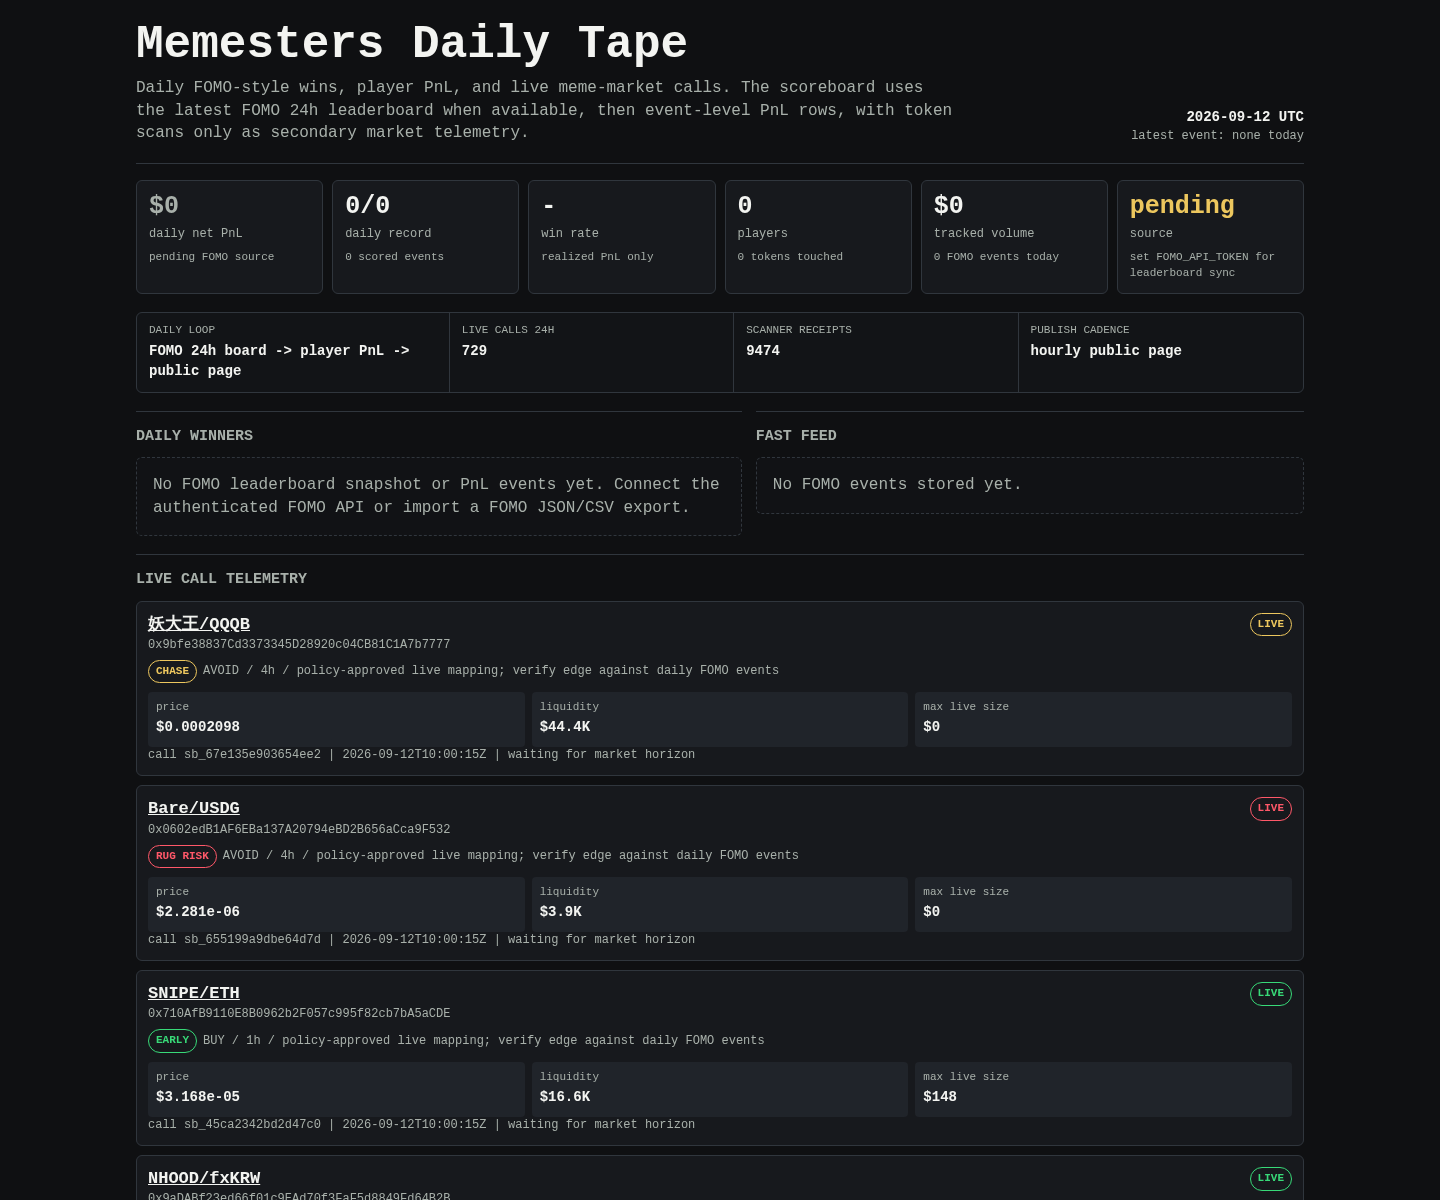
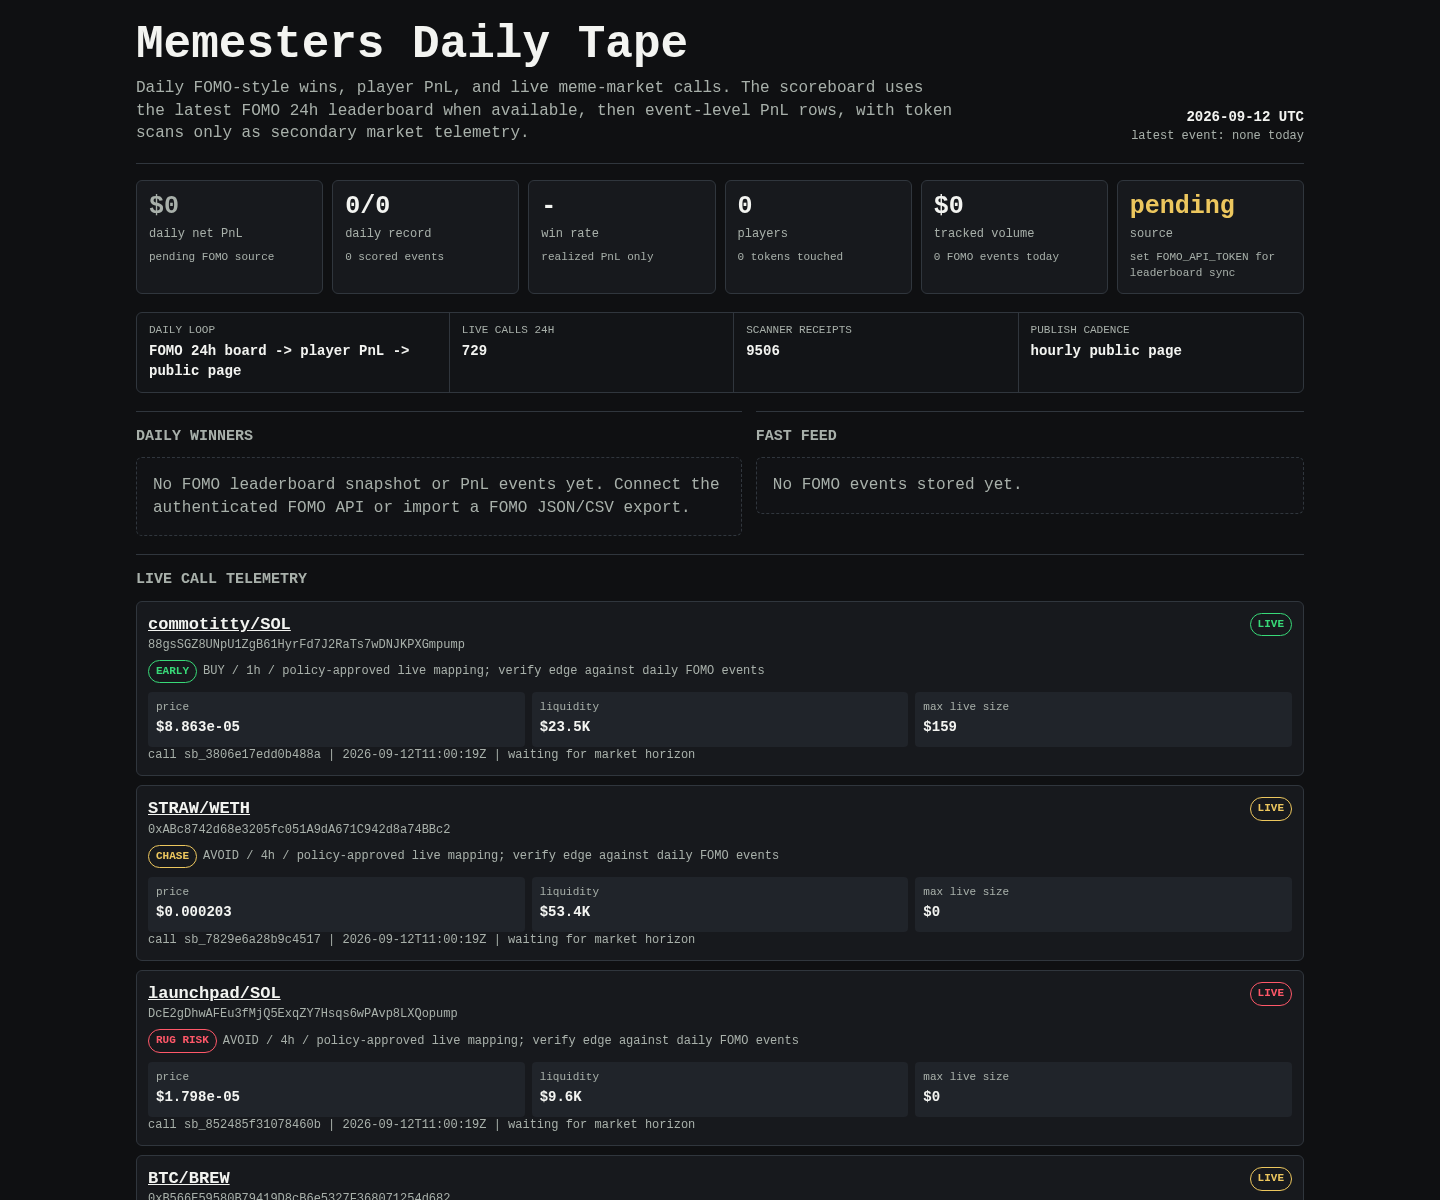
Update Memesters scoreboard

diff --git a/memesters/index.html b/memesters/index.html
@@ -150,7 +150,7 @@
     <div class="rail" aria-label="live operating loop">
       <div><span>daily loop</span><b>FOMO 24h board -> player PnL -> public page</b></div>
       <div><span>live calls 24h</span><b>729</b></div>
-      <div><span>scanner receipts</span><b>9474</b></div>
+      <div><span>scanner receipts</span><b>9506</b></div>
       <div><span>publish cadence</span><b>hourly public page</b></div>
     </div>
 
@@ -171,8 +171,29 @@
     <article class="receipt">
       <div class="receipt-head">
         <div>
-          <div class="pair"><a href="https://dexscreener.com/bsc/0xd24410a1a3d76c57b4c57cce0c670264a7e86d6b">妖大王/QQQB</a></div>
-          <div class="addr">0x9bfe38837Cd3373345D28920c04CB81C1A7b7777</div>
+          <div class="pair"><a href="https://dexscreener.com/solana/gkrrlzeagqkb1tlctuuc9ywxpeinmzohvyuvkarfpj33">commotitty/SOL</a></div>
+          <div class="addr">88gsSGZ8UNpU1ZgB61HyrFd7J2RaTs7wDNJKPXGmpump</div>
+          <div class="addr policy-line">
+            <span class="badge early">EARLY</span>
+            <span>BUY / 1h / policy-approved live mapping; verify edge against daily FOMO events</span>
+          </div>
+        </div>
+        <span class="badge early">LIVE</span>
+      </div>
+      <div class="receipt-grid">
+        <div class="kv"><span>price</span><b>$8.863e-05</b></div>
+        <div class="kv"><span>liquidity</span><b>$23.5K</b></div>
+        <div class="kv"><span>max live size</span><b>$159</b></div>
+      </div>
+      <div class="outcomes">call sb_3806e17edd0b488a | 2026-09-12T11:00:19Z | waiting for market horizon</div>
+    </article>
+    
+
+    <article class="receipt">
+      <div class="receipt-head">
+        <div>
+          <div class="pair"><a href="https://dexscreener.com/ethereum/0x1ee457d8f33669042cc3db6f138b36919b6866bcd5175cdf36c5bc874da3fd00">STRAW/WETH</a></div>
+          <div class="addr">0xABc8742d68e3205fc051A9dA671C942d8a74BBc2</div>
           <div class="addr policy-line">
             <span class="badge chase">CHASE</span>
             <span>AVOID / 4h / policy-approved live mapping; verify edge against daily FOMO events</span>
@@ -181,19 +202,19 @@
         <span class="badge chase">LIVE</span>
       </div>
       <div class="receipt-grid">
-        <div class="kv"><span>price</span><b>$0.0002098</b></div>
-        <div class="kv"><span>liquidity</span><b>$44.4K</b></div>
+        <div class="kv"><span>price</span><b>$0.000203</b></div>
+        <div class="kv"><span>liquidity</span><b>$53.4K</b></div>
         <div class="kv"><span>max live size</span><b>$0</b></div>
       </div>
-      <div class="outcomes">call sb_67e135e903654ee2 | 2026-09-12T10:00:15Z | waiting for market horizon</div>
+      <div class="outcomes">call sb_7829e6a28b9c4517 | 2026-09-12T11:00:19Z | waiting for market horizon</div>
     </article>
     
 
     <article class="receipt">
       <div class="receipt-head">
         <div>
-          <div class="pair"><a href="https://dexscreener.com/robinhood/0xc3eec55cdf5d774bc2524a989cd986277bd9ca8e6ac8d252ddadd5374a887753">Bare/USDG</a></div>
-          <div class="addr">0x0602edB1AF6EBa137A20794eBD2B656aCca9F532</div>
+          <div class="pair"><a href="https://dexscreener.com/solana/643cis6hneanayee5w7d93cx4ycw7afczf4kv86ka1cx">launchpad/SOL</a></div>
+          <div class="addr">DcE2gDhwAFEu3fMjQ5ExqZY7Hsqs6wPAvp8LXQopump</div>
           <div class="addr policy-line">
             <span class="badge rug-risk">RUG RISK</span>
             <span>AVOID / 4h / policy-approved live mapping; verify edge against daily FOMO events</span>
@@ -202,61 +223,19 @@
         <span class="badge rug-risk">LIVE</span>
       </div>
       <div class="receipt-grid">
-        <div class="kv"><span>price</span><b>$2.281e-06</b></div>
-        <div class="kv"><span>liquidity</span><b>$3.9K</b></div>
+        <div class="kv"><span>price</span><b>$1.798e-05</b></div>
+        <div class="kv"><span>liquidity</span><b>$9.6K</b></div>
         <div class="kv"><span>max live size</span><b>$0</b></div>
       </div>
-      <div class="outcomes">call sb_655199a9dbe64d7d | 2026-09-12T10:00:15Z | waiting for market horizon</div>
+      <div class="outcomes">call sb_852485f31078460b | 2026-09-12T11:00:19Z | waiting for market horizon</div>
     </article>
     
 
     <article class="receipt">
       <div class="receipt-head">
         <div>
-          <div class="pair"><a href="https://dexscreener.com/robinhood/0xb623ee125b0bc5fda7fcc6396d8f5aa19a0e4c0f7c159f100755383688fe5cc0">SNIPE/ETH</a></div>
-          <div class="addr">0x710AfB9110E8B0962b2F057c995f82cb7bA5aCDE</div>
-          <div class="addr policy-line">
-            <span class="badge early">EARLY</span>
-            <span>BUY / 1h / policy-approved live mapping; verify edge against daily FOMO events</span>
-          </div>
-        </div>
-        <span class="badge early">LIVE</span>
-      </div>
-      <div class="receipt-grid">
-        <div class="kv"><span>price</span><b>$3.168e-05</b></div>
-        <div class="kv"><span>liquidity</span><b>$16.6K</b></div>
-        <div class="kv"><span>max live size</span><b>$148</b></div>
-      </div>
-      <div class="outcomes">call sb_45ca2342bd2d47c0 | 2026-09-12T10:00:15Z | waiting for market horizon</div>
-    </article>
-    
-
-    <article class="receipt">
-      <div class="receipt-head">
-        <div>
-          <div class="pair"><a href="https://dexscreener.com/robinhood/0x867cbbd4565abc53beefca93f5d6e8d34099491b4c8872b9ca1e7ed354d3c989">NHOOD/fxKRW</a></div>
-          <div class="addr">0x9aDABf23ed66f01c9EAd70f3FaF5d8849Fd64B2B</div>
-          <div class="addr policy-line">
-            <span class="badge early">EARLY</span>
-            <span>BUY / 1h / policy-approved live mapping; verify edge against daily FOMO events</span>
-          </div>
-        </div>
-        <span class="badge early">LIVE</span>
-      </div>
-      <div class="receipt-grid">
-        <div class="kv"><span>price</span><b>$6.177e-06</b></div>
-        <div class="kv"><span>liquidity</span><b>$6.0K</b></div>
-        <div class="kv"><span>max live size</span><b>$25</b></div>
-      </div>
-      <div class="outcomes">call sb_dcc747a74a47444b | 2026-09-12T10:00:15Z | waiting for market horizon</div>
-    </article>
-    
-
-    <article class="receipt">
-      <div class="receipt-head">
-        <div>
-          <div class="pair"><a href="https://dexscreener.com/robinhood/0xee5e0f461066c9d245f27369cc9d177a2349976909cc9d78227c73d0bba6a042">Picks/ETH</a></div>
-          <div class="addr">0xe4cC189186d504fF007C4Bd8a6CD5C0ECbCaB0eC</div>
+          <div class="pair"><a href="https://dexscreener.com/bsc/0x5b0d81efa2a93f1645677e17f159102545cb653d">BTC/BREW</a></div>
+          <div class="addr">0xB566E59580B79419D8cB6e5327F368071254d682</div>
           <div class="addr policy-line">
             <span class="badge chase">CHASE</span>
             <span>AVOID / 4h / policy-approved live mapping; verify edge against daily FOMO events</span>
@@ -265,61 +244,19 @@
         <span class="badge chase">LIVE</span>
       </div>
       <div class="receipt-grid">
-        <div class="kv"><span>price</span><b>$0.0001248</b></div>
-        <div class="kv"><span>liquidity</span><b>$32.9K</b></div>
+        <div class="kv"><span>price</span><b>$4.539e-05</b></div>
+        <div class="kv"><span>liquidity</span><b>$25.9K</b></div>
         <div class="kv"><span>max live size</span><b>$0</b></div>
       </div>
-      <div class="outcomes">call sb_7e816b3fdecb4bc2 | 2026-09-12T10:00:15Z | waiting for market horizon</div>
+      <div class="outcomes">call sb_8910a9cb8f6b42e2 | 2026-09-12T11:00:19Z | waiting for market horizon</div>
     </article>
     
 
     <article class="receipt">
       <div class="receipt-head">
         <div>
-          <div class="pair"><a href="https://dexscreener.com/robinhood/0x7c10ec07217e762fc14f23a512a82d8776991208bfd16e5c47f16d2ec2eb226d">PERPSPAD/ETH</a></div>
-          <div class="addr">0x14778A17D61CCc17a22265B6d7d434c7A5559700</div>
-          <div class="addr policy-line">
-            <span class="badge early">EARLY</span>
-            <span>BUY / 1h / policy-approved live mapping; verify edge against daily FOMO events</span>
-          </div>
-        </div>
-        <span class="badge early">LIVE</span>
-      </div>
-      <div class="receipt-grid">
-        <div class="kv"><span>price</span><b>$9.773e-05</b></div>
-        <div class="kv"><span>liquidity</span><b>$29.1K</b></div>
-        <div class="kv"><span>max live size</span><b>$121</b></div>
-      </div>
-      <div class="outcomes">call sb_213a365cd38d4164 | 2026-09-12T10:00:15Z | waiting for market horizon</div>
-    </article>
-    
-
-    <article class="receipt">
-      <div class="receipt-head">
-        <div>
-          <div class="pair"><a href="https://dexscreener.com/robinhood/0xdb1b9f6a9c09698e15e510df0bc686b7bdfbac56">Maple/WETH</a></div>
-          <div class="addr">0x6b09c294eCC9fbE3285f0421EB76eBB6222adE64</div>
-          <div class="addr policy-line">
-            <span class="badge chase">CHASE</span>
-            <span>AVOID / 4h / policy-approved live mapping; verify edge against daily FOMO events</span>
-          </div>
-        </div>
-        <span class="badge chase">LIVE</span>
-      </div>
-      <div class="receipt-grid">
-        <div class="kv"><span>price</span><b>$0.0008301</b></div>
-        <div class="kv"><span>liquidity</span><b>$67.5K</b></div>
-        <div class="kv"><span>max live size</span><b>$0</b></div>
-      </div>
-      <div class="outcomes">call sb_6dfd3d67758046b1 | 2026-09-12T10:00:14Z | waiting for market horizon</div>
-    </article>
-    
-
-    <article class="receipt">
-      <div class="receipt-head">
-        <div>
-          <div class="pair"><a href="https://dexscreener.com/robinhood/0x31b066a7af8a444c0bfcae6746371017ecd8b0387c1ebfb9f156f26253ab6879">CARDSTACK/ETH</a></div>
-          <div class="addr">0x112502eff3B1D39B0F6ea9d47Fc44a57F5BC32CD</div>
+          <div class="pair"><a href="https://dexscreener.com/solana/gekd5hrih6vtm7brdm3p1kysccnuhvdokh3pp7jaybyk">BABYZCAT/ZCAT</a></div>
+          <div class="addr">B22s4HtmrsaRysDy6t4XMbDowcJJ61jgs3hPuPHrqodJ</div>
           <div class="addr policy-line">
             <span class="badge rug-risk">RUG RISK</span>
             <span>AVOID / 4h / policy-approved live mapping; verify edge against daily FOMO events</span>
@@ -328,19 +265,19 @@
         <span class="badge rug-risk">LIVE</span>
       </div>
       <div class="receipt-grid">
-        <div class="kv"><span>price</span><b>$2.657e-05</b></div>
-        <div class="kv"><span>liquidity</span><b>$15.2K</b></div>
+        <div class="kv"><span>price</span><b>$2.421e-05</b></div>
+        <div class="kv"><span>liquidity</span><b>$13.7K</b></div>
         <div class="kv"><span>max live size</span><b>$0</b></div>
       </div>
-      <div class="outcomes">call sb_d375302a99384747 | 2026-09-12T09:45:15Z | waiting for market horizon</div>
+      <div class="outcomes">call sb_8bbe858010df4191 | 2026-09-12T11:00:19Z | waiting for market horizon</div>
     </article>
     
 
     <article class="receipt">
       <div class="receipt-head">
         <div>
-          <div class="pair"><a href="https://dexscreener.com/robinhood/0xde7e5a7deb6ddf94513c44efbc7a21339a08e2aecdb25b2617d2dce9bc4c6407">SNOP/USDG</a></div>
-          <div class="addr">0xc3379772dAe9cA6a0f41056ab2E850Ca9D399027</div>
+          <div class="pair"><a href="https://dexscreener.com/solana/f74vcgsgbghbyq8hvyveavetxf7kqlmsj5tgkjy7nmei">POOL/SOL</a></div>
+          <div class="addr">2kuEPy7zQNcCXmmq8zjTUNMm1WRs5XzBC5VXgVo6pump</div>
           <div class="addr policy-line">
             <span class="badge chase">CHASE</span>
             <span>AVOID / 4h / policy-approved live mapping; verify edge against daily FOMO events</span>
@@ -349,32 +286,95 @@
         <span class="badge chase">LIVE</span>
       </div>
       <div class="receipt-grid">
-        <div class="kv"><span>price</span><b>$2.769e-05</b></div>
-        <div class="kv"><span>liquidity</span><b>$13.5K</b></div>
+        <div class="kv"><span>price</span><b>$9.605e-05</b></div>
+        <div class="kv"><span>liquidity</span><b>$25.1K</b></div>
         <div class="kv"><span>max live size</span><b>$0</b></div>
       </div>
-      <div class="outcomes">call sb_c2511505adb6496e | 2026-09-12T09:45:15Z | waiting for market horizon</div>
+      <div class="outcomes">call sb_67b0de66167845d9 | 2026-09-12T11:00:19Z | waiting for market horizon</div>
     </article>
     
 
     <article class="receipt">
       <div class="receipt-head">
         <div>
-          <div class="pair"><a href="https://dexscreener.com/robinhood/0x9f901fd267131e0bc657a33519db8dbe60c276f5">HOP/WETH</a></div>
-          <div class="addr">0xA4CefA07d34432369E869E99842f47bBa032cE77</div>
+          <div class="pair"><a href="https://dexscreener.com/robinhood/0x42b009f327076bc462dc1725c29221938f8f96307f356121a8445b889d036ea7">HASH/ETH</a></div>
+          <div class="addr">0xCA75082b85bb7Bec8325d513F615b16BDa260020</div>
           <div class="addr policy-line">
-            <span class="badge chase">CHASE</span>
+            <span class="badge early">EARLY</span>
+            <span>BUY / 1h / policy-approved live mapping; verify edge against daily FOMO events</span>
+          </div>
+        </div>
+        <span class="badge early">LIVE</span>
+      </div>
+      <div class="receipt-grid">
+        <div class="kv"><span>price</span><b>$0.2476</b></div>
+        <div class="kv"><span>liquidity</span><b>$112.0K</b></div>
+        <div class="kv"><span>max live size</span><b>$1.3K</b></div>
+      </div>
+      <div class="outcomes">call sb_e0c7656cbbfc45d3 | 2026-09-12T11:00:19Z | waiting for market horizon</div>
+    </article>
+    
+
+    <article class="receipt">
+      <div class="receipt-head">
+        <div>
+          <div class="pair"><a href="https://dexscreener.com/robinhood/0xce072b5b4c9c8982cd8cd77eb9a2172e7f40b3ccacf4fb21e8241688907ebe15">TICK/ETH</a></div>
+          <div class="addr">0x9421e9C20c7e415C9AFbcE47c761Aeab95a08Be3</div>
+          <div class="addr policy-line">
+            <span class="badge early">EARLY</span>
+            <span>BUY / 1h / policy-approved live mapping; verify edge against daily FOMO events</span>
+          </div>
+        </div>
+        <span class="badge early">LIVE</span>
+      </div>
+      <div class="receipt-grid">
+        <div class="kv"><span>price</span><b>$8.762e-05</b></div>
+        <div class="kv"><span>liquidity</span><b>$27.6K</b></div>
+        <div class="kv"><span>max live size</span><b>$331</b></div>
+      </div>
+      <div class="outcomes">call sb_e47f14de2de5419e | 2026-09-12T11:00:19Z | waiting for market horizon</div>
+    </article>
+    
+
+    <article class="receipt">
+      <div class="receipt-head">
+        <div>
+          <div class="pair"><a href="https://dexscreener.com/robinhood/0x6547fad5073fdce319bfe171c8a1c404120194e52d2a3187ff140ada4501aaec">PECK/GOOGL</a></div>
+          <div class="addr">0xDd2Ac97f76F0882Eea826cC7009CfB8A9B4e27F6</div>
+          <div class="addr policy-line">
+            <span class="badge early">EARLY</span>
+            <span>BUY / 1h / policy-approved live mapping; verify edge against daily FOMO events</span>
+          </div>
+        </div>
+        <span class="badge early">LIVE</span>
+      </div>
+      <div class="receipt-grid">
+        <div class="kv"><span>price</span><b>$1.017e-05</b></div>
+        <div class="kv"><span>liquidity</span><b>$8.3K</b></div>
+        <div class="kv"><span>max live size</span><b>$99</b></div>
+      </div>
+      <div class="outcomes">call sb_7a873304e6944bad | 2026-09-12T10:45:15Z | waiting for market horizon</div>
+    </article>
+    
+
+    <article class="receipt">
+      <div class="receipt-head">
+        <div>
+          <div class="pair"><a href="https://dexscreener.com/solana/wmbg15v6jrkbsqrzru9nyvkq5acpdnv9bitz4bz756m">SOL4EX/SOL</a></div>
+          <div class="addr">6v4XyHhHj6uNsach9W4u59DntpdB7Q216E9fx37upump</div>
+          <div class="addr policy-line">
+            <span class="badge rug-risk">RUG RISK</span>
             <span>AVOID / 4h / policy-approved live mapping; verify edge against daily FOMO events</span>
           </div>
         </div>
-        <span class="badge chase">LIVE</span>
+        <span class="badge rug-risk">LIVE</span>
       </div>
       <div class="receipt-grid">
-        <div class="kv"><span>price</span><b>$0.000285</b></div>
-        <div class="kv"><span>liquidity</span><b>$55.6K</b></div>
+        <div class="kv"><span>price</span><b>$5.245e-05</b></div>
+        <div class="kv"><span>liquidity</span><b>$17.9K</b></div>
         <div class="kv"><span>max live size</span><b>$0</b></div>
       </div>
-      <div class="outcomes">call sb_686b195f986b4182 | 2026-09-12T09:45:15Z | waiting for market horizon</div>
+      <div class="outcomes">call sb_97d9fdce4b134d3b | 2026-09-12T10:45:15Z | waiting for market horizon</div>
     </article>
     
     </section>
